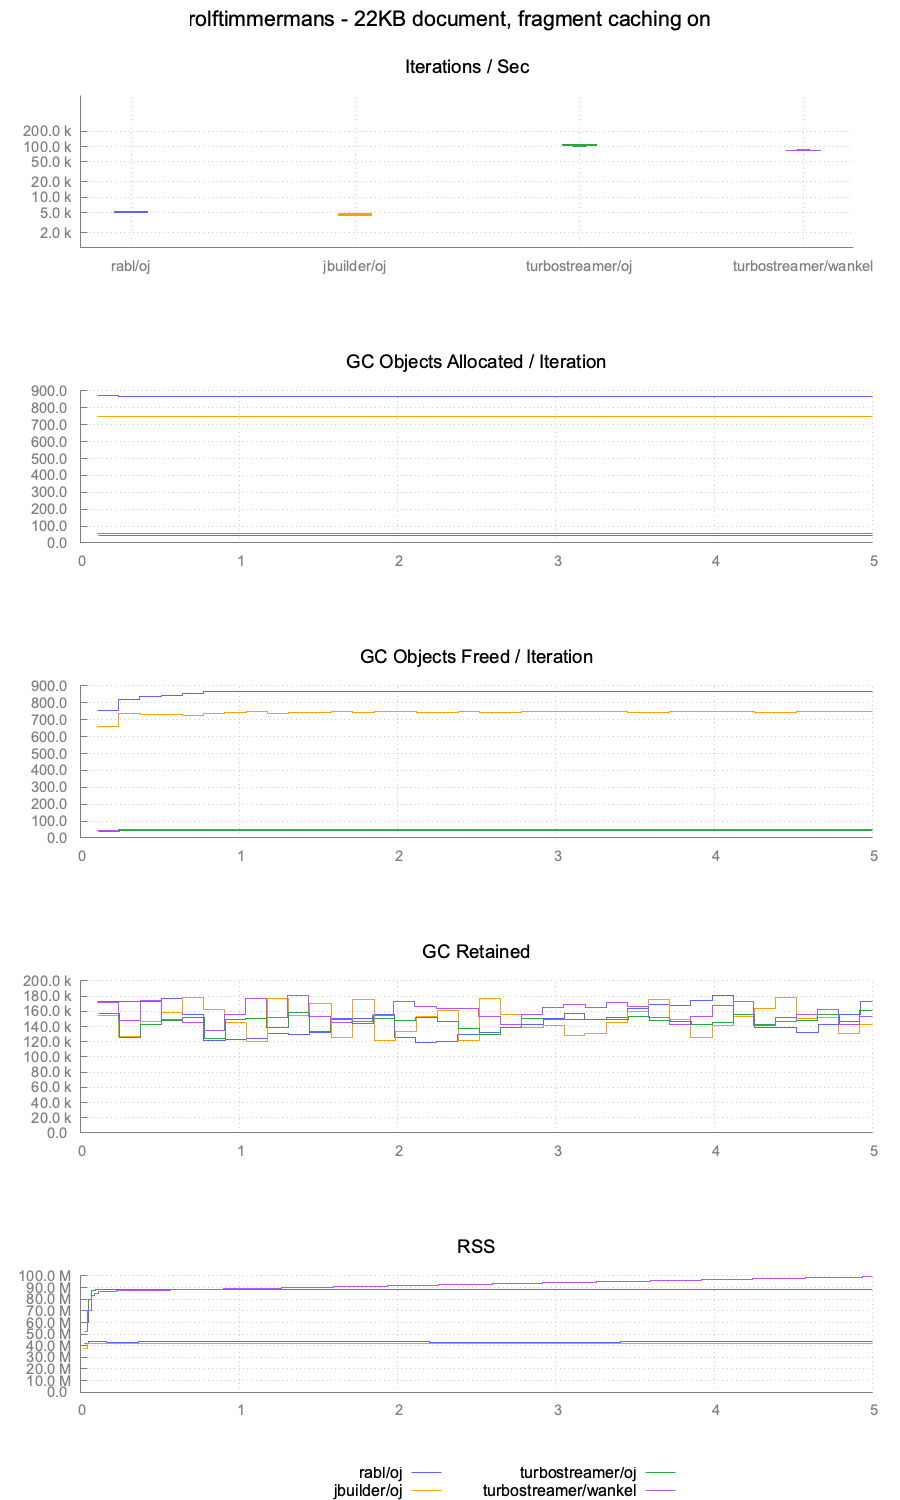
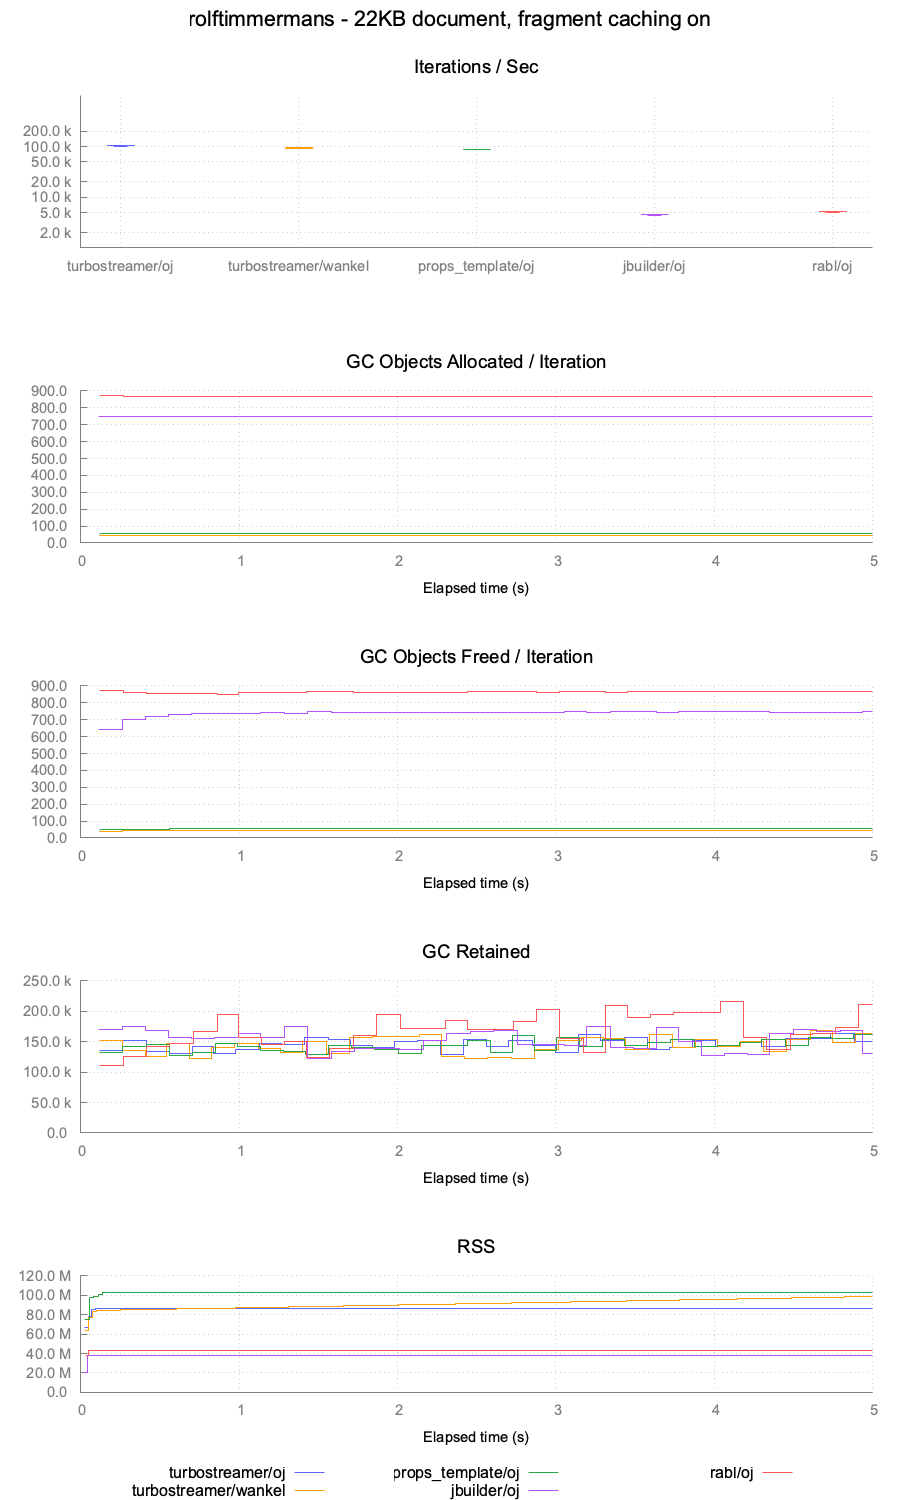
Add props_template to the performance suites (#33)
* Add props_template to the performance suites

props_template is the closest comparison TurboStreamer has: the other
direct-to-encoder builder, and the other one that caches serialized bytes
rather than a structure to re-serialize. It was missing from both suites,
which left the reports comparing TurboStreamer only against libraries
that build a Hash first.

Adding it changes what the README can claim. TurboStreamer was described
as "the only one that caches serialized bytes"; that is no longer true,
and with a cached fragment the field now splits into two byte-cachers and
two structure-cachers rather than TurboStreamer against everyone. The
prose is rewritten around the measured numbers:

                        uncached          cached
    rolftimmermans (22KB)
      rabl              10411.1            5069.3
      jbuilder           1805.8            4724.6
      props_template     2423.4           85745.4
      turbostreamer/oj   2905.9          109534.8
      turbostreamer/wan  1675.8           85603.1
    dirk (5MB)
      rabl                 70.7              53.2
      jbuilder             22.5              44.5
      props_template       34.7            2723.7
      turbostreamer/oj     36.8            7510.8
      turbostreamer/wan    22.7            7328.6

TurboStreamer's Oj encoder still leads in all four runs, but the uncached
margin over props_template is narrow (1.20x and 1.06x), and that is now
stated rather than left implied.
[…]

diff --git a/performance/rolftimmermans/props_template/oj.rb b/performance/rolftimmermans/props_template/oj.rb
@@ -1,0 +1,82 @@
+require 'props_template'
+require 'oj'
+
+# Must come after the require: props_template loads its railtie when Rails is
+# already defined, and this stub is only here to give the cache somewhere to go.
+module Rails
+  def self.cache
+    @cache ||= ActiveSupport::Cache::MemoryStore.new
+  end
+end
+
+# props_template's Props::Cache#cache_key calls context.cache_fragment_name
+# without a respond_to? guard, where turbostreamer and jbuilder fall back to the
+# bare key when the context does not define it. Defined on a subclass rather
+# than on the shared FakeContext so the other implementations keep the code path
+# they had before this file existed.
+class PropsContext < FakeContext
+  def cache_fragment_name(key, **options)
+    key
+  end
+end
+
+Props::Template.class_eval do
+  def self.encode!(context, options = {})
+    json = new(context, options)
+    yield json
+    json.result!
+  end
+end
+
+# The cached fragment covers the same subtree as the other implementations, but
+# props_template caches internal nodes only -- the value, not the key -- so the
+# cached bytes are the article body where turbostreamer's are
+# `"article":{...}`. That is each library's own idiom; the emitted document is
+# identical.
+def render_props_template
+  Props::Template.encode!(PropsContext.new) do |json|
+    json.generated_at $date
+    json.request_id $next_request_id.call
+
+    json.article(cache: 'article_fragment') do
+      json.author do
+        json.name $author.name
+        json.birthyear $author.birthyear
+        json.bio $author.bio
+      end
+      json.title "Profiling Jbuilder"
+      json.body "How to profile Jbuilder"
+      json.date $date
+
+      json.references do
+        json.array! $arr do |ref|
+          json.name "Introduction to profiling"
+          json.url "http://example.com/"
+        end
+      end
+
+      json.comments do
+        json.array! $arr do |comment|
+          json.author do
+            json.name $author.name
+            json.birthyear $author.birthyear
+            json.bio $author.bio
+          end
+          json.email "rolf@example.com"
+          json.body "Great article"
+          json.date $date
+        end
+      end
+    end
+
+    json.total_comments $arr.size
+  end
+end
+
+# Fill the cache
+render_props_template
+
+# Everthing before this is run once initially, after is the test
+__SETUP__
+
+render_props_template

diff --git a/performance/dirk/props_template/oj.rb b/performance/dirk/props_template/oj.rb
@@ -1,0 +1,72 @@
+require 'props_template'
+require 'oj'
+
+# Must come after the require: props_template loads its railtie when Rails is
+# already defined, and this stub is only here to give the cache somewhere to go.
+module Rails
+  def self.cache
+    @cache ||= ActiveSupport::Cache::MemoryStore.new
+  end
+end
+
+# props_template's Props::Cache#cache_key calls context.cache_fragment_name
+# without a respond_to? guard, where turbostreamer and jbuilder fall back to the
+# bare key when the context does not define it. Defined on a subclass rather
+# than on the shared FakeContext so the other implementations keep the code path
+# they had before this file existed.
+class PropsContext < FakeContext
+  def cache_fragment_name(key, **options)
+    key
+  end
+end
+
+Props::Template.class_eval do
+  def self.encode!(context, options = {})
+    json = new(context, options)
+    yield json
+    json.result!
+  end
+end
+
+# The cached fragment covers the same subtree as the other implementations, but
+# props_template caches internal nodes only -- the value, not the key -- so the
+# cached bytes are `{"items":...}` where turbostreamer's are `"cached":{...}`.
+# That is each library's own idiom; the emitted document is identical.
+def render_props_template
+  Props::Template.encode!(PropsContext.new) do |json|
+    json.generated_at $date
+    json.request_id $next_request_id.call
+
+    json.cached(cache: 'ptcached') do
+      json.items do
+        json.array! 0..100 do |i|
+          json.a i
+          json.b i
+          json.c i
+          json.d i
+          json.e i
+
+          json.subitems do
+            json.array! 0..100 do |j|
+              json.f i.to_s * j
+              json.g i.to_s * j
+              json.h i.to_s * j
+              json.i i.to_s * j
+              json.j i.to_s * j
+            end
+          end
+        end
+      end
+    end
+
+    json.item_count 101
+  end
+end
+
+# Fill the cache
+render_props_template
+
+# Everthing before this is run once initially, after is the test
+__SETUP__
+
+render_props_template

diff --git a/lib/turbostreamer/encoders/oj.rb b/lib/turbostreamer/encoders/oj.rb
@@ -40,12 +40,10 @@ class TurboStreamer
       if !@stack.empty?
         @populated[-1] = true
 
-        if @pending_comma && @populated.last
+        if @pending_comma
           @stream_writer.flush
           @tee.write(",")
-          
         end
-
       end
       
       @pending_comma = false

diff --git a/README.md b/README.md
@@ -469,7 +469,9 @@ The benchmark gems live in an optional Bundler group, so install them first:
 
 To run the benchmarks: `bundle exec rake performance` (from the repository
 root). It produces four reports — two document shapes, each run with fragment
-caching off and on. The ones below were generated on macOS 26.5.1, Apple M5 Pro.
+caching off and on — and prints a table of each implementation's median i/s. The
+reports below were generated on macOS 26.5.1, Apple M5 Pro; the i/s figures
+quoted in the text are medians of three runs.
 
 A third suite, vendored from alba, compares TurboStreamer against sixteen other
 serializers rather than measuring document shapes. It carries its own bundle, so
@@ -485,12 +487,19 @@ builders themselves.
 Caching is toggled with the `PERFORM_CACHING` environment variable. It has to be
 set on `ActionController::Base` and on the render context together — RABL
 consults the former through `Rabl::Helpers#template_cache_configured?`, while
-TurboStreamer and jbuilder ask the controller they are rendered with. Setting
-only one leaves the other library's caching silently disabled.
+TurboStreamer, props_template and jbuilder ask the controller they are rendered
+with. Setting only one leaves the other library's caching silently disabled.
 
-All four implementations produce the same document — byte-identical output
-(TurboStreamer's Oj encoder appends a trailing newline), the same fragment
-cached under the same key, and the same live values rendered outside it. RABL
+props_template additionally requires the render context to define
+`cache_fragment_name`, which it calls unguarded where TurboStreamer and jbuilder
+fall back to the bare key. The suites give it that method on a subclass rather
+than on the shared context, so the other implementations keep the code path they
+had before it was added.
+
+All five implementations produce the same document — byte-identical output
+(the two Oj-backed builders append a trailing newline), the same subtree cached
+as the fragment, and the same live values rendered outside it. Each library
+caches under its own key and namespace, so none can read another's entry. RABL
 runs with `cache_sources` enabled so no implementation touches the filesystem
 inside the measured loop.
 
@@ -500,10 +509,20 @@ whole cost of an iteration. In an application, attribute access, type casting
 and the rest of the request add the same absolute cost to every library, which
 narrows every relative gap — most of all uncached, where RABL's lead comes from
 handing a finished Ruby Hash to Oj's single C-level pass rather than from a
-faster builder; among the builder DSLs, TurboStreamer's Oj encoder is the
-fastest uncached in both suites. With a cached fragment it is the fastest
-outright and by a wide margin, because it is the only one that caches
-serialized bytes rather than a structure to re-serialize. The GC panels are normalized per iteration, not per
+faster builder; among the builder DSLs, TurboStreamer's Oj encoder and
+props_template are effectively tied uncached and trade the lead by document
+size — TurboStreamer ahead on the 22KB document (1.12x), props_template on the
+5MB one (1.04x).
+
+With a cached fragment the field splits by *what* each library caches, not by
+how fast it builds. TurboStreamer and props_template both cache serialized
+bytes and splice them into the output, so a hit costs a copy; RABL and jbuilder
+cache the data structure and deserialize and re-serialize it on every hit. That
+is worth an order of magnitude or more, and it puts props_template — the other
+direct-to-encoder builder — in the same band as TurboStreamer rather than with
+the other two. TurboStreamer is still the fastest cached in both suites — its
+Oj encoder leads props_template by 1.18x on the 22KB document and 2.64x on the
+5MB one. The GC panels are normalized per iteration, not per
 second — implementations complete vastly different amounts of work in the same
 five seconds, and a per-second axis would make the fastest one look the most
 wasteful. The iterations axis is logarithmic for the same reason. RSS is a
@@ -517,21 +536,26 @@ cached fragment; `generated_at`, `request_id` and `total_comments` stay live.
 The document comes from [rolftimmermans](https://github.com/rolftimmermans)'
 [jbuilder#54](https://github.com/rails/jbuilder/pull/54) (2012).
 
-<img src="https://raw.githubusercontent.com/malomalo/turbostreamer/master/performance/rolftimmermans/report-uncached.png" width="600" alt="rolftimmermans without caching: iterations/sec, GC and RSS for rabl, jbuilder and turbostreamer">
+<img src="https://raw.githubusercontent.com/malomalo/turbostreamer/master/performance/rolftimmermans/report-uncached.png" width="600" alt="rolftimmermans without caching: iterations/sec, GC and RSS for rabl, jbuilder, props_template and turbostreamer">
 
-Rebuilt every iteration, RABL leads by roughly 3.5x: its template evaluates to a
-Ruby Hash that Oj serializes in one C-level pass, where the builder DSLs walk
-the same structure through roughly 800 Ruby method calls. At this size there is
-nothing to stream.
+Rebuilt every iteration, RABL leads by roughly 3.9x (10,338 i/s against
+TurboStreamer's 2,664): its template evaluates to a Ruby Hash that Oj serializes
+in one C-level pass, where the builder DSLs walk the same structure through
+roughly 800 Ruby method calls. At this size there is nothing to stream. The
+three builder DSLs land close together — TurboStreamer 2,664, props_template
+2,378, jbuilder 1,794.
 
-<img src="https://raw.githubusercontent.com/malomalo/turbostreamer/master/performance/rolftimmermans/report-cached.png" width="600" alt="rolftimmermans with caching: iterations/sec, GC and RSS for rabl, jbuilder and turbostreamer">
+<img src="https://raw.githubusercontent.com/malomalo/turbostreamer/master/performance/rolftimmermans/report-cached.png" width="600" alt="rolftimmermans with caching: iterations/sec, GC and RSS for rabl, jbuilder, props_template and turbostreamer">
 
-With the fragment cached the ranking inverts and the gap is roughly
-twenty-fold, and it comes from *what* each library caches. TurboStreamer caches
-the fragment's serialized JSON and splices those bytes into the output stream,
-so a hit costs a copy and no serialization. RABL and jbuilder cache the data
-structure — RABL's key is `rabl/article_fragment//hash` — so a hit deserializes
-the cached objects and re-serializes them into the response every time.
+With the fragment cached the ranking inverts and the field splits in two, along
+the line of *what* each library caches. TurboStreamer (99,855 i/s) and
+props_template (84,804) cache the fragment's serialized JSON and splice those
+bytes into the output, so a hit costs a copy and no serialization. RABL (5,070)
+and jbuilder (4,518) cache the data structure — RABL's key is
+`rabl/article_fragment//hash` — so a hit deserializes the cached objects and
+re-serializes them into the response every time. That is a seventeen- to
+twenty-two-fold difference between the two groups, against 1.18x between the two
+byte-cachers.
 
 ### dirk — 5MB document
 
@@ -543,24 +567,30 @@ The document comes from [dirk](https://github.com/dirk), in
 (2015) — a thread proposing caching improvements, which is why it is shaped
 around a single large cacheable block.
 
-<img src="https://raw.githubusercontent.com/malomalo/turbostreamer/master/performance/dirk/report-uncached.png" width="600" alt="dirk without caching: iterations/sec, GC and RSS for rabl, jbuilder and turbostreamer">
+<img src="https://raw.githubusercontent.com/malomalo/turbostreamer/master/performance/dirk/report-uncached.png" width="600" alt="dirk without caching: iterations/sec, GC and RSS for rabl, jbuilder, props_template and turbostreamer">
 
-Rebuilt every iteration, RABL leads by about 2x: one Oj pass over a finished
-object graph beats roughly 51,000 Ruby-level DSL calls. Note the RSS panel,
-where building the document costs every implementation several hundred MB.
+Rebuilt every iteration, RABL leads by about 2x (66.3 i/s against
+TurboStreamer's 33.6): one Oj pass over a finished object graph beats roughly
+51,000 Ruby-level DSL calls. The builder DSLs are again close, and closer than
+at 22KB — here props_template (34.9) edges TurboStreamer's Oj encoder (33.6),
+with jbuilder at 23.6. Note the RSS panel, where building the document costs
+every implementation several hundred MB.
 
-<img src="https://raw.githubusercontent.com/malomalo/turbostreamer/master/performance/dirk/report-cached.png" width="600" alt="dirk with caching: iterations/sec, GC and RSS for rabl, jbuilder and turbostreamer">
+<img src="https://raw.githubusercontent.com/malomalo/turbostreamer/master/performance/dirk/report-cached.png" width="600" alt="dirk with caching: iterations/sec, GC and RSS for rabl, jbuilder, props_template and turbostreamer">
 
-With the fragment cached the same split appears, and the larger the cached
-fragment the more the re-serialization costs: TurboStreamer re-emits 5MB of
-cached bytes while RABL and jbuilder deserialize and re-serialize 5MB of cached
-objects. At this size a cache hit is actually *slower* for RABL than rebuilding
-from scratch — the effect reported against jbuilder in
+With the fragment cached the same split appears and widens, because the larger
+the cached fragment the more the re-serialization costs. The two byte-cachers
+re-emit 5MB of cached bytes — TurboStreamer 7,210 i/s, props_template 2,731 —
+while RABL (50.9) and jbuilder (42.4) deserialize and re-serialize 5MB of cached
+objects, leaving two orders of magnitude between the groups. At this size a
+cache hit is actually *slower* for RABL than rebuilding from scratch, 50.9
+against 66.3 — the effect reported against jbuilder in
 [jbuilder#259](https://github.com/rails/jbuilder/issues/259), reproduced here.
-The RSS panel makes the deserialization cost visible: jbuilder climbs to
-~400MB while completing the *fewest* iterations, Marshal-loading the 5MB
-cached hash on every hit, while TurboStreamer holds around 100MB while
-producing two orders of magnitude more output.
+The gap between the two byte-cachers also opens up at this size, 2.64x against
+1.18x on the 22KB document. The RSS panel makes the deserialization cost
+visible: jbuilder climbs to ~400MB while completing the *fewest* iterations,
+Marshal-loading the 5MB cached hash on every hit, while TurboStreamer holds
+around 140MB while producing two orders of magnitude more output.
 
 ### alba — TurboStreamer against sixteen other serializers
 

diff --git a/CHANGELOG.md b/CHANGELOG.md
@@ -103,6 +103,11 @@ Unreleased
   carries no position -- so it replays anywhere a value belongs, and both
   encoders now write and read identical fragments.
 
+* Added props_template to the `rolftimmermans` and `dirk` performance suites.
+  It is the closest comparison TurboStreamer has -- the other direct-to-encoder
+  builder that caches serialized bytes rather than a structure -- and it was
+  missing from the reports.
+  
 * Added alba's benchmark suite under `performance/alba`, run with
   `rake performance:alba`. It is the suite whose figures get quoted at
   TurboStreamer, and the published ones predate 2.0.
